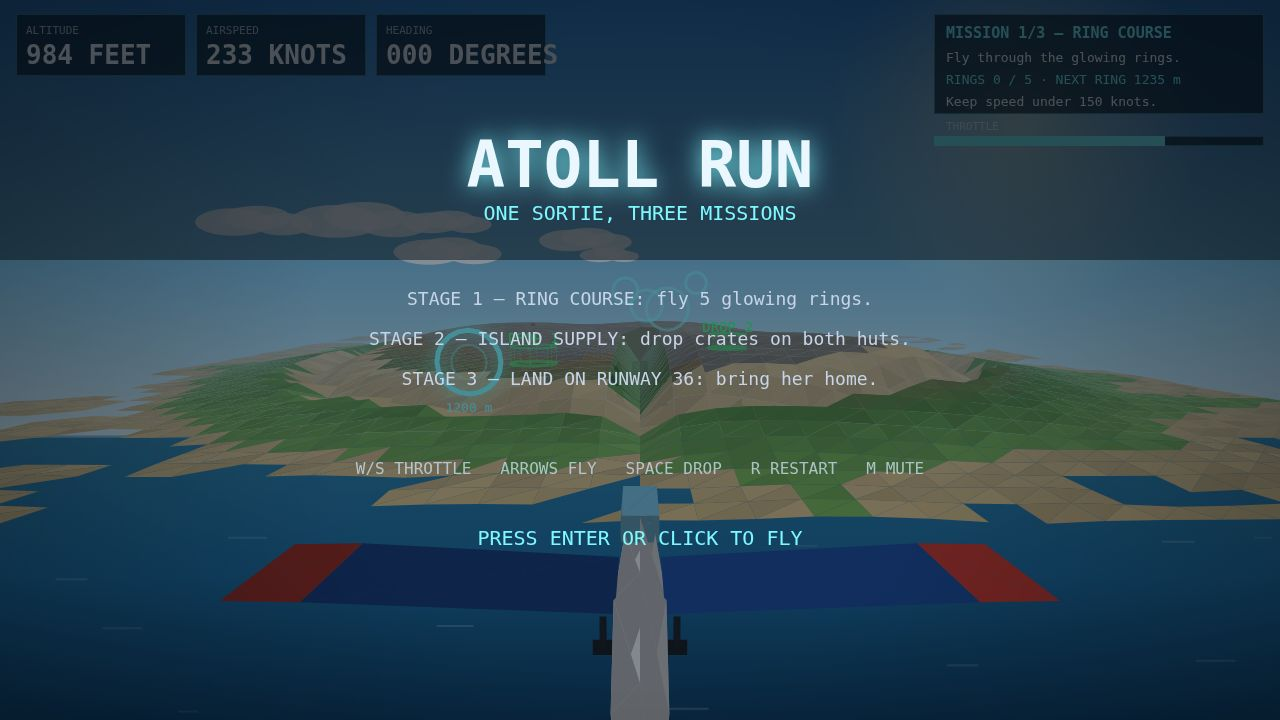
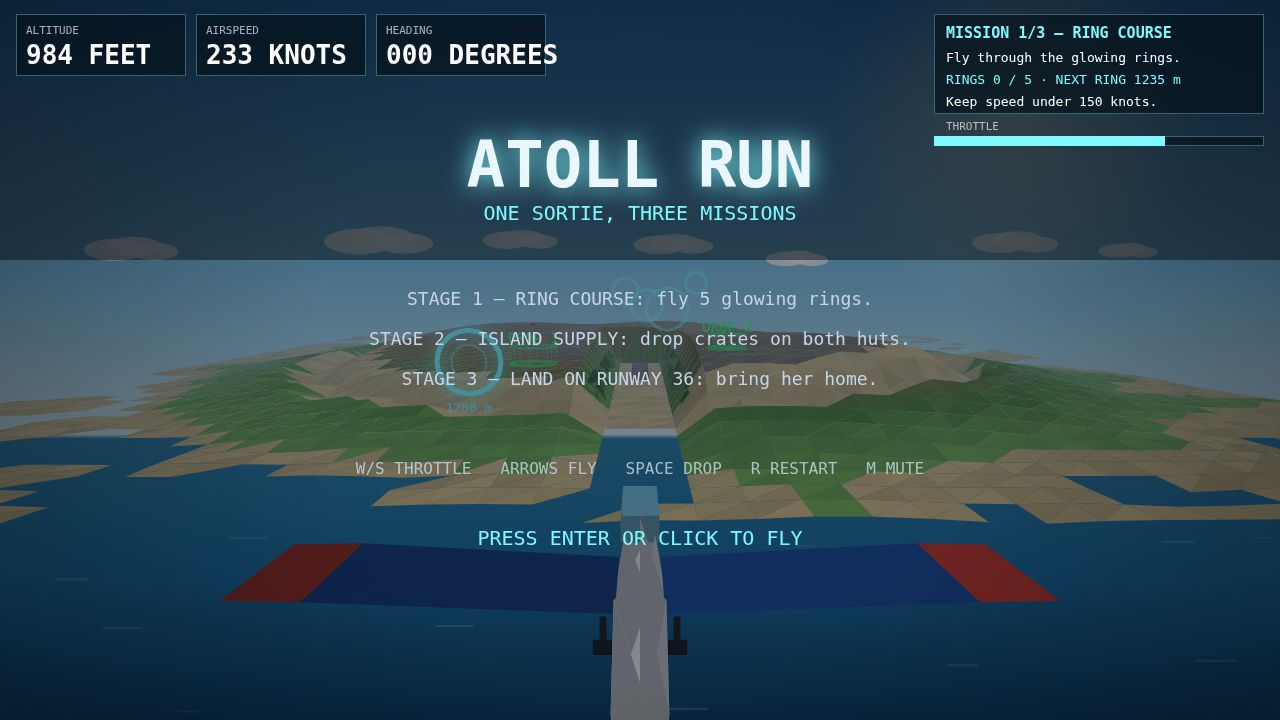
Fix approach shot: runway now visible on final
- Widen the flat runway corridor in heightAt (45m -> 90m half-width):
  the 77m terrain grid meant the 45m flat zone left the 60m runway
  buried under ~35m of sloping terrain at its edges.
- buildIsland: only skip low triangles in the open sea (r>1100m), so
  the flattened corridor floor renders as sand instead of a hole
  showing the 2D sea gradient.
- Runway now has its own drawTris pass after the terrain (before the
  plane), so no terrain triangle can painter-sort over the strip.
- stageShot(approach): freeze at 400-600m from the threshold, wings
  level, instead of flying 8s past established (which ended 134m out
  with the plane over the runway and the strip hidden by the fuselage).
- Title screen: draw the title overlay before the HUD so the top
  ALT/SPD/HDG boxes are no longer greyed out by the overlay bands.
- Sortie still wins: 2678 (rings 1000, drops 396, landing +692,
  fuel +230, time +260), 0 console errors.

diff --git a/game/src/terrain.js b/game/src/terrain.js
@@ -109,11 +109,17 @@ export function heightAt(x, y, seed) {
   const dRun = Math.abs(x);
   // Runway strip plus a cleared approach corridor to the south (y -1600..300),
   // so the 5.5-degree final stays above the ground all the way to the threshold.
+  // The flat strip is 90 m half-wide, NOT 45: the terrain grid step is ~77 m,
+  // so with a 45 m flat zone the only flat vertices are on the centreline and
+  // the triangles spanning to the next vertices (±77 m) slope steeply up and
+  // BURY the 60 m runway (z=2) under ~35 m of terrain at its edges — the
+  // runway was invisible from the air. At 90 m the ±77 m vertices are flat
+  // and the strip sits on truly level ground.
   const inY = y >= -1600 && y <= 300;
   if (inY) {
-    if (dRun < 45) h = 0;
-    else if (dRun < 90) {
-      const t = smoothstep(45, 90, dRun);
+    if (dRun < 90) h = 0;
+    else if (dRun < 150) {
+      const t = smoothstep(90, 150, dRun);
       h = lerp(0, h, t);
     }
   }
@@ -156,7 +162,14 @@ export function buildIsland(seed) {
       ];
       for (let q = 0; q < 2; q++) {
         const t = quads[q];
-        if (t[0][2] <= 0.5 && t[1][2] <= 0.5 && t[2][2] <= 0.5) continue;
+        const ccx = (t[0][0] + t[1][0] + t[2][0]) / 3;
+        const ccy = (t[0][1] + t[1][1] + t[2][1]) / 3;
+        // Skip only the open sea: low triangles OUTSIDE the island (centre
+        // radius > 1100 m) are water and the 2D sea gradient covers them.
+        // Low triangles on land (the flattened runway corridor, h=0) must
+        // still render as sand — skipping them leaves a hole that shows
+        // the sea gradient under the runway.
+        if (t[0][2] <= 0.5 && t[1][2] <= 0.5 && t[2][2] <= 0.5 && Math.hypot(ccx, ccy) > 1100) continue;
         const cx = (t[0][0] + t[1][0] + t[2][0]) / 3;
         const cy = (t[0][1] + t[1][1] + t[2][1]) / 3;
         const cz = (t[0][2] + t[1][2] + t[2][2]) / 3;
@@ -273,6 +286,14 @@ export function collectIslandTris(island, cam, out) {
     pushTri(out, [x1, y0, z1], [x1, y1, z1], apex, "#a85a32");
     pushTri(out, [x0, y1, z1], [x0, y0, z1], apex, "#a85a32");
   }
+}
+
+// The runway is collected separately from the terrain: it is drawn in its
+// own drawTris pass AFTER the terrain (see render.js), so a terrain
+// triangle can never painter-sort in front of it and bury the strip.
+export function collectRunwayTris(island, cam, out) {
+  if (!island || !cam || !out) return;
+  const ex = cam.ex || 0, ey = cam.ey || 0, ez = cam.ez || 0;
   const rw = island.runway;
   if (rw) {
     const rcx = (rw.x0 + rw.x1) / 2, rcy = (rw.y0 + rw.y1) / 2, rcz = rw.z || 2;

diff --git a/game/src/shots.js b/game/src/shots.js
@@ -120,18 +120,25 @@ export function stageShot(name, world) {
         stepWorld(world, autopilot(world), STEP);
         if (world.stage === 3 || world.phase !== "fly") break;
       }
-      // Fly on until established on final (wings level, heading north,
-      // south of y=-500), then 8 more seconds so the runway is close
-      // enough to fill the lower frame instead of a slit on the horizon.
-      const maxFinal = stepsFor(40);
+      // Fly the final and freeze at photo distance: 400-600 m from the
+      // threshold, wings level, heading north, so the whole runway strip
+      // is visible ahead in the lower frame. The old staging flew 8 s
+      // past "established", ending 134 m from the threshold with the
+      // plane over the runway — the strip sat at the bottom edge of the
+      // frame, hidden behind the fuselage (old shot 3).
+      const maxFinal = stepsFor(60);
       for (let i = 0; i < maxFinal; i++) {
         stepWorld(world, autopilot(world), STEP);
         if (world.phase !== "fly") break;
         const h = world.jet.headingDeg;
         const herr = Math.abs(((h + 180) % 360 + 360) % 360 - 180);
-        if (herr < 15 && world.jet.y < -500) break;
+        const bank = Math.abs(num(world.jet.bankDeg, 0));
+        const distM = -300 - num(world.jet.y, 0);
+        if (herr < 15 && bank < 10 && distM <= 600 && distM >= 400) break;
+        // Safety: never fly on past the threshold — freeze rather than
+        // overshoot the runway entirely.
+        if (distM < 350 && herr < 20) break;
       }
-      runSteps(world, stepsFor(8), true);
       return { screen: world.phase !== "fly" ? world.phase : "play", best: world.score };
     }
     if (name === "score") {

diff --git a/game/src/render.js b/game/src/render.js
@@ -1,5 +1,5 @@
 import { cameraFor, project, drawTris } from "./gl3d.js";
-import { buildIsland, collectIslandTris } from "./terrain.js";
+import { buildIsland, collectIslandTris, collectRunwayTris } from "./terrain.js";
 import { planeTris, drawRings, drawDropZones } from "./plane3d.js";
 
 let island = null, islandSeed = -1;
@@ -57,12 +57,17 @@ export function drawScene(ctx, world, fx) {
       }
     }
 
-    // 3D tris
+    // 3D tris, in three painter passes so the draw order is guaranteed:
+    // terrain first, runway over the terrain (a terrain triangle can never
+    // bury the strip again), plane last (wheels over the runway).
     const out = [];
     collectIslandTris(island, cam, out);
+    const rwOut = [];
+    collectRunwayTris(island, cam, rwOut);
     const pt = planeTris(jet);
-    for (let i = 0; i < pt.length; i++) out.push(pt[i]);
     drawTris(ctx, cam, out, "#9db4cc");
+    drawTris(ctx, cam, rwOut, "#9db4cc");
+    drawTris(ctx, cam, pt, "#9db4cc");
 
     // clouds
     if (island && island.clouds) {

diff --git a/game/src/main.js b/game/src/main.js
@@ -150,9 +150,13 @@ if (canvas) {
     }
     ctx.clearRect(0, 0, STAGE.width, STAGE.height);
     drawScene(ctx, world, { time: world.elapsed });
+    // Title overlay first, HUD on top of it: the overlay's dark bands
+    // used to be drawn AFTER the HUD and greyed out the top ALT/SPD/HDG
+    // boxes on the title screen. HUD elements sit in the corners and do
+    // not overlap the centred title text.
+    if (screen === "title") drawTitleOverlay();
     const hudScreen = screen === "title" ? "title" : (world.phase === "fly" ? "play" : world.phase);
     drawHud(ctx, world, hudScreen);
-    if (screen === "title") drawTitleOverlay();
     if (paused && screen === "play") {
       ctx.save();
       ctx.textAlign = "center";
